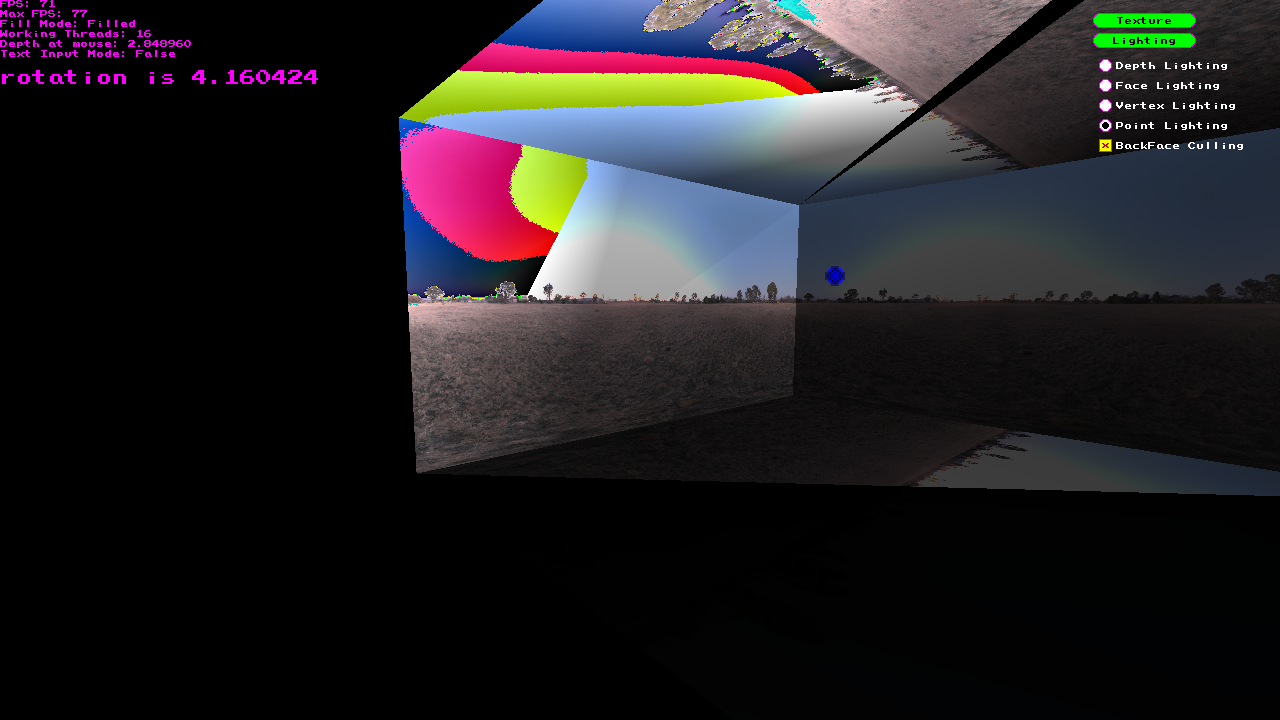
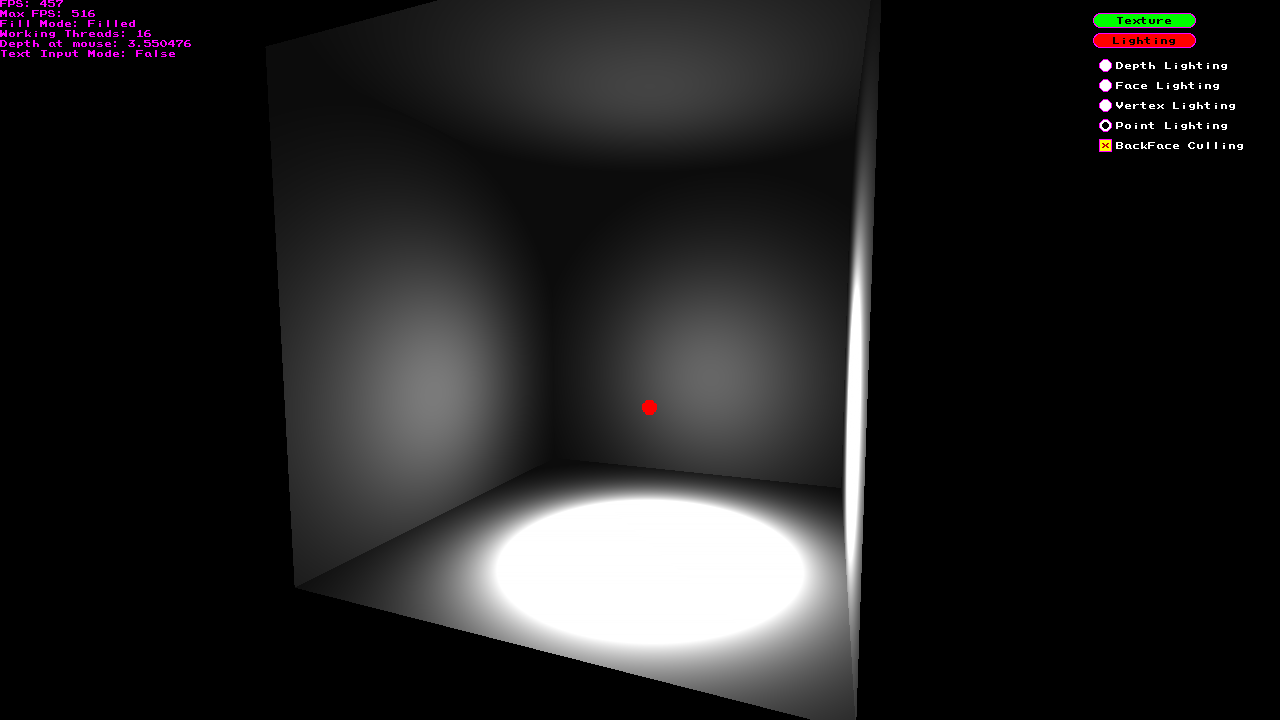
start slider

diff --git a/GameSimpleUI.h b/GameSimpleUI.h
@@ -244,9 +244,9 @@ namespace game
 	{
 	public:
 		RadialUI();
-		// Text scale (scales the vertical size of checkbox)
+		// Text scale (scales the vertical size of radial)
 		uint32_t scale;
-		// Text of button
+		// Text of radial
 		std::string label;
 		bool checked;
 		bool outlined;
@@ -265,7 +265,7 @@ namespace game
 	inline RadialUI::RadialUI()
 	{
 		scale = 1;
-		label = "CheckBox";
+		label = "Radial";
 		outlined = true;
 		checked = false;
 		group = -1;
@@ -330,6 +330,105 @@ namespace game
 			}
 		}
 	}
+
+	template<typename T>
+	class SliderUI : public ElementUI
+	{
+	public:
+		SliderUI();
+		uint32_t scale;
+		// Text of slider
+		std::string label;
+		bool outlined;
+
+		T minValue;
+		T maxValue;
+		T value;
+		uint32_t length;
+
+		Color labelColor = game::Colors::Black;
+		Color outlineColor = game::Colors::Magenta;
+		Color boxColor = game::Colors::Yellow;
+		Color xColor = game::Colors::DarkRed;
+
+		void Update() override;
+		void Draw() override;
+	private:
+	};
+
+	template<typename T>
+	inline SliderUI<T>::SliderUI()
+	{
+		scale = 1;
+		label = "Slider";
+		outlined = true;
+		minValue = (T)0;
+		maxValue = (T)0;
+		value = (T)0;
+	}
+
+	template<typename T>
+	inline void SliderUI<T>::Draw()
+	{
+		const int32_t textScaled = scale * _textHeight;
+		const int32_t scaledRadius = 5 * scale;
+
+		// Outline
+		_pixelMode->CircleClip(position.x + scaledRadius, position.y + scaledRadius, scaledRadius + 1, game::Colors::Magenta);
+
+		// Circle
+		_pixelMode->CircleFilledClip(position.x + scaledRadius, position.y + scaledRadius, scaledRadius, game::Colors::White);
+
+		// Dot
+		//if (checked)
+		//{
+		//	_pixelMode->CircleFilledClip(position.x + scaledRadius, position.y + scaledRadius, scaledRadius - (2 * scale), game::Colors::Black);
+		//}
+
+		// Label
+		_pixelMode->TextClip(label, position.x + (textScaled) * 2, position.y + (scaledRadius - (scaledRadius - (1 + scale))), game::Colors::White, scale);
+
+	}
+
+	template<typename T>
+	inline void SliderUI<T>::Update()
+	{
+		const game::Pointi mouse = _pixelMode->GetScaledMousePosition();
+		_pressed = false;
+		_hovered = false;
+		const int32_t scaledDiameter = 5 * scale * 2;// _textHeight* scale;
+		//_pixelMode->RectClip({ position.x,position.y,(position.x + scaledDiameter), (position.y + scaledDiameter) }, game::Colors::Yellow);
+		if (mouse.x < (position.x + (scaledDiameter)))
+		{
+			if (mouse.x >= (position.x))
+			{
+				if (mouse.y <= (position.y + (scaledDiameter)))
+				{
+					if (mouse.y >= (position.y))
+					{
+						_hovered = true;
+						if (enginePointer->geMouse.WasButtonReleased(geM_LEFT))
+						{
+							//if (!checked)
+							//{
+							//	checked = !checked;
+							//	std::any t = checked;
+							//	_uiCallback(name, t);
+							//}
+						}
+
+						if (enginePointer->geMouse.IsButtonHeld(geM_LEFT))
+						{
+							_pressed = true;
+						}
+
+					}
+
+				}
+			}
+		}
+	}
+
 	class SimpleUI
 	{
 	public:

diff --git a/Main.cpp b/Main.cpp
@@ -81,6 +81,7 @@ public:
 	game::RadialUI lightingVertexRadial;
 	game::RadialUI lightingPointRadial;
 	game::CheckBoxUI BackFaceCullingCheckBox;
+	game::SliderUI<float_t> PointLightConstSlider;
 
 	game::Camera3D camera;
 	uint32_t maxFPS;
@@ -719,7 +720,7 @@ public:
 		//software3D.SetState(GAME_SOFTWARE3D_ALPHA_BLEND, true);
 		software3D.SetState(GAME_SOFTWARE3D_ALPHA_TEST, true);
 
-		lights.lights[0].diffuse = game::Colors::Blue;
+		//lights.lights[0].diffuse = game::Colors::Blue;
 		//lights.lights[0].position = { 0.75f,0.0f,0.75f };
 		lights.lights[0].position = game::RotateX(lights.lights[0].position, (1 * 3.14f / 10.0f) * (msElapsed / 1000.0f));
 		lights.lights[0].position = game::RotateY(lights.lights[0].position, -(1 * 3.14f / 10.0f) * (msElapsed / 1000.0f));

diff --git a/GameSoftware3D.h b/GameSoftware3D.h
@@ -1080,12 +1080,13 @@ namespace game
 								//                   lightNormal * lightNormal / (lightpos-pixelpos.dot(lightpos-pixelpos) this last part is squaring
 								// Attenuation calc 
 								float_t ad = (lights[0].position - pixPos).Dot(lights[0].position - pixPos);// e.Mag();
-								float_t attCon = 1.0f;
+								float_t attCon = 0;
 								float_t attLin = 1.0f * ad;
-								float_t attExp = 1.005f * ad * ad;
+								float_t attExp = 0 * ad * ad;
 								ad = attCon + attLin + attExp;
 
-								intensity *= 1.0f / ad;
+								intensity *= pow(1.0f / ad,2.2f);
+								//intensity *= 1.0f / ad;;
 							}
 
 							if (intensity < 0.05f) intensity = 0.05f;
